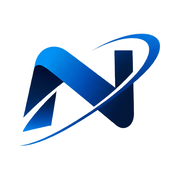
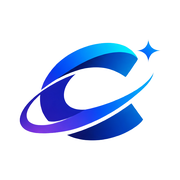
Rebrand NAGI Technologies to ciary Technologies
Replace all brand names, metadata, OGP, alt text and icons. New logo at
public/images/ciary-logo.png, icon-only mark at ciary-mark.png; favicon,
app icon, apple-touch icon and OG image regenerated from it.

Claude-Session: https://claude.ai/code/session_01AmHiRRjmPyShx1F6sR6Fsd

Changed region(s): [[0.1111, 0.1667, 0.8889, 0.8333]]

diff --git a/app/works/page.tsx b/app/works/page.tsx
@@ -9,9 +9,9 @@ import { CtaSection } from "@/components/CtaSection";
 export const metadata: Metadata = {
   title: "制作実績・開発事例",
   description:
-    "NAGI Technologiesの制作実績・開発事例。AI社内問い合わせシステム、問い合わせ管理システム、業務自動化ダッシュボードなど、開発可能なシステムを開発サンプルとしてご紹介します。",
+    "ciary Technologiesの制作実績・開発事例。AI社内問い合わせシステム、問い合わせ管理システム、業務自動化ダッシュボードなど、開発可能なシステムを開発サンプルとしてご紹介します。",
   alternates: { canonical: "/works" },
-  openGraph: { url: "/works", title: "制作実績・開発事例 | NAGI Technologies" },
+  openGraph: { url: "/works", title: "制作実績・開発事例 | ciary Technologies" },
 };
 
 export default function WorksPage() {
@@ -23,7 +23,7 @@ export default function WorksPage() {
       <PageHero
         eyebrow="Works"
         title="制作実績・開発事例"
-        description="NAGI Technologiesが手がけるシステム・Webサイトをご紹介します。"
+        description="ciary Technologiesが手がけるシステム・Webサイトをご紹介します。"
       />
 
       <section className="py-20 sm:py-28">
@@ -53,7 +53,7 @@ export default function WorksPage() {
             <p className="mt-6 flex max-w-3xl gap-3 rounded-2xl border border-amber-500/25 bg-amber-50/70 p-5 text-[13.5px] leading-[1.9] text-amber-900">
               <Info size={18} className="mt-0.5 shrink-0" aria-hidden />
               <span>
-                以下は、NAGI Technologiesが開発可能なシステムの例として作成した<strong>開発サンプル</strong>です。
+                以下は、ciary Technologiesが開発可能なシステムの例として作成した<strong>開発サンプル</strong>です。
                 特定のお客様への導入実績ではありません。実際の機能・構成はご要望に合わせて設計します。
               </span>
             </p>

diff --git a/app/page.tsx b/app/page.tsx
@@ -43,7 +43,7 @@ const jsonLd = {
   "@type": "Organization",
   name: siteConfig.name,
   url: siteConfig.url,
-  logo: `${siteConfig.url}/images/nagi-logo.png`,
+  logo: `${siteConfig.url}/images/ciary-logo.png`,
   description: siteConfig.description,
 };
 
@@ -217,14 +217,14 @@ export default function HomePage() {
         </div>
       </section>
 
-      {/* ============ WHY NAGI ============ */}
+      {/* ============ WHY CIARY ============ */}
       <section className="bg-mist py-24 sm:py-36">
         <div className="container-x">
           <SectionHeading
-            eyebrow="Why NAGI"
+            eyebrow="Why ciary"
             title={
               <>
-                NAGI Technologiesが
+                ciary Technologiesが
                 <br />
                 選ばれる理由
               </>
@@ -259,7 +259,7 @@ export default function HomePage() {
               title="開発可能なシステム例"
               description={
                 <>
-                  NAGI Technologiesが開発できるシステムの一例を、開発サンプルとしてご紹介します。
+                  ciary Technologiesが開発できるシステムの一例を、開発サンプルとしてご紹介します。
                   <br className="hidden sm:block" />
                   <span className="text-xs text-ink-muted">※ 掲載内容は開発サンプルであり、実際の導入事例ではありません。</span>
                 </>

diff --git a/app/about/page.tsx b/app/about/page.tsx
@@ -9,9 +9,9 @@ import { CtaSection } from "@/components/CtaSection";
 export const metadata: Metadata = {
   title: "私たちについて",
   description:
-    "NAGI Technologiesの企業理念「Technology for a Better Business.」と事業方針、概要をご紹介します。",
+    "ciary Technologiesの企業理念「Technology for a Better Business.」と事業方針、概要をご紹介します。",
   alternates: { canonical: "/about" },
-  openGraph: { url: "/about", title: "私たちについて | NAGI Technologies" },
+  openGraph: { url: "/about", title: "私たちについて | ciary Technologies" },
 };
 
 const policies = [
@@ -59,7 +59,7 @@ export default function AboutPage() {
               <p>AIとテクノロジーを活用し、企業が抱える課題を解決する。</p>
               <p>規模や業種を問わず、必要な技術を必要な形で提供する。</p>
               <p>
-                NAGI Technologiesは、テクノロジーをより身近で、確かな成果につながるものにすることで、
+                ciary Technologiesは、テクノロジーをより身近で、確かな成果につながるものにすることで、
                 企業や店舗のビジネスの可能性を広げていきます。
               </p>
             </div>

diff --git a/lib/site.ts b/lib/site.ts
@@ -18,11 +18,11 @@ function validateUrl(url: string): string | null {
 }
 
 export const siteConfig = {
-  name: "NAGI Technologies",
-  shortName: "NAGI",
+  name: "ciary Technologies",
+  shortName: "ciary",
   tagline: "AIとテクノロジーで、企業の可能性を広げる。",
   description:
-    "NAGI Technologiesは、企業の課題に合わせたAIシステム開発・業務自動化・Web制作を通じて、ビジネスの可能性を広げるテクノロジーカンパニーです。",
+    "ciary Technologiesは、企業の課題に合わせたAIシステム開発・業務自動化・Web制作を通じて、ビジネスの可能性を広げるテクノロジーカンパニーです。",
   url: (process.env.NEXT_PUBLIC_SITE_URL?.trim() || "http://localhost:3000").replace(/\/$/, ""),
   /** LINE公式アカウントURL。未設定・不正な値の場合は null */
   lineUrl: validateUrl(rawLineUrl),

diff --git a/app/service/page.tsx b/app/service/page.tsx
@@ -12,9 +12,9 @@ import { CtaSection } from "@/components/CtaSection";
 export const metadata: Metadata = {
   title: "サービス",
   description:
-    "AIシステム・Webアプリケーション開発、AI業務自動化・DX支援、Webサイト・LP制作。NAGI Technologiesが提供するサービスと、解決できる課題をご紹介します。",
+    "AIシステム・Webアプリケーション開発、AI業務自動化・DX支援、Webサイト・LP制作。ciary Technologiesが提供するサービスと、解決できる課題をご紹介します。",
   alternates: { canonical: "/service" },
-  openGraph: { url: "/service", title: "サービス | NAGI Technologies" },
+  openGraph: { url: "/service", title: "サービス | ciary Technologies" },
 };
 
 const flow = [

diff --git a/next.config.ts b/next.config.ts
@@ -3,12 +3,12 @@ import type { NextConfig } from "next";
 if (process.env.NODE_ENV === "production") {
   if (!process.env.NEXT_PUBLIC_LINE_URL) {
     console.warn(
-      "\n[NAGI] NEXT_PUBLIC_LINE_URL が未設定です。LINE相談ボタンは「準備中」表示になります。\n",
+      "\n[ciary] NEXT_PUBLIC_LINE_URL が未設定です。LINE相談ボタンは「準備中」表示になります。\n",
     );
   }
   if (!process.env.NEXT_PUBLIC_SITE_URL) {
     console.warn(
-      "[NAGI] NEXT_PUBLIC_SITE_URL が未設定です。OGP・canonical・sitemap のURLが正しく生成されません。\n",
+      "[ciary] NEXT_PUBLIC_SITE_URL が未設定です。OGP・canonical・sitemap のURLが正しく生成されません。\n",
     );
   }
 }

diff --git a/components/Logo.tsx b/components/Logo.tsx
@@ -9,8 +9,8 @@ type Props = {
   width?: number;
 };
 
-// ロゴ原寸: 1380 x 355
-const RATIO = 355 / 1380;
+// ロゴ原寸: 1473 x 361（public/images/ciary-logo.png）
+const RATIO = 361 / 1473;
 
 export function Logo({ className = "", priority = false, width = 168 }: Props) {
   return (
@@ -20,7 +20,7 @@ export function Logo({ className = "", priority = false, width = 168 }: Props) {
       className={`inline-flex shrink-0 items-center ${className}`}
     >
       <Image
-        src="/images/nagi-logo.png"
+        src="/images/ciary-logo.png"
         alt={siteConfig.name}
         width={width}
         height={Math.round(width * RATIO)}

diff --git a/app/layout.tsx b/app/layout.tsx
@@ -30,7 +30,7 @@ export const metadata: Metadata = {
   },
   description: siteConfig.description,
   applicationName: siteConfig.name,
-  keywords: ["AIシステム開発", "業務自動化", "DX支援", "AIチャットボット", "Webアプリケーション開発", "ホームページ制作", "LP制作", "NAGI Technologies"],
+  keywords: ["AIシステム開発", "業務自動化", "DX支援", "AIチャットボット", "Webアプリケーション開発", "ホームページ制作", "LP制作", "ciary Technologies"],
   alternates: { canonical: "/" },
   openGraph: {
     type: "website",

diff --git a/app/works/[slug]/page.tsx b/app/works/[slug]/page.tsx
@@ -26,7 +26,7 @@ export async function generateMetadata({ params }: { params: Promise<Params> }):
     title: `${work.title}（${label}）`,
     description: work.summary,
     alternates: { canonical: `/works/${work.slug}` },
-    openGraph: { url: `/works/${work.slug}`, title: `${work.title}（${label}） | NAGI Technologies`, description: work.summary },
+    openGraph: { url: `/works/${work.slug}`, title: `${work.title}（${label}） | ciary Technologies`, description: work.summary },
   };
 }
 

diff --git a/app/contact/page.tsx b/app/contact/page.tsx
@@ -10,7 +10,7 @@ export const metadata: Metadata = {
   description:
     "AIシステム開発・業務自動化・Web制作について、LINE公式アカウントからお気軽にご相談ください。ご相談は無料です。",
   alternates: { canonical: "/contact" },
-  openGraph: { url: "/contact", title: "お問い合わせ | NAGI Technologies" },
+  openGraph: { url: "/contact", title: "お問い合わせ | ciary Technologies" },
 };
 
 const examples = [

diff --git a/lib/company.ts b/lib/company.ts
@@ -12,7 +12,7 @@ export type ProfileRow = {
 };
 
 export const companyProfile: ProfileRow[] = [
-  { label: "名称", value: "NAGI Technologies" },
+  { label: "名称", value: "ciary Technologies" },
   { label: "代表者", value: null },
   { label: "所在地", value: null },
   { label: "設立・開業", value: null },

diff --git a/app/globals.css b/app/globals.css
@@ -14,7 +14,7 @@
 
   --color-brand: #1463f3;
   --color-brand-light: #2f8bff;
-  --color-brand-sky: #5fb3ff;
+  --color-brand-sky: #27c2ff;
 
   --color-line: #06c755;
   --color-line-dark: #05b04b;
